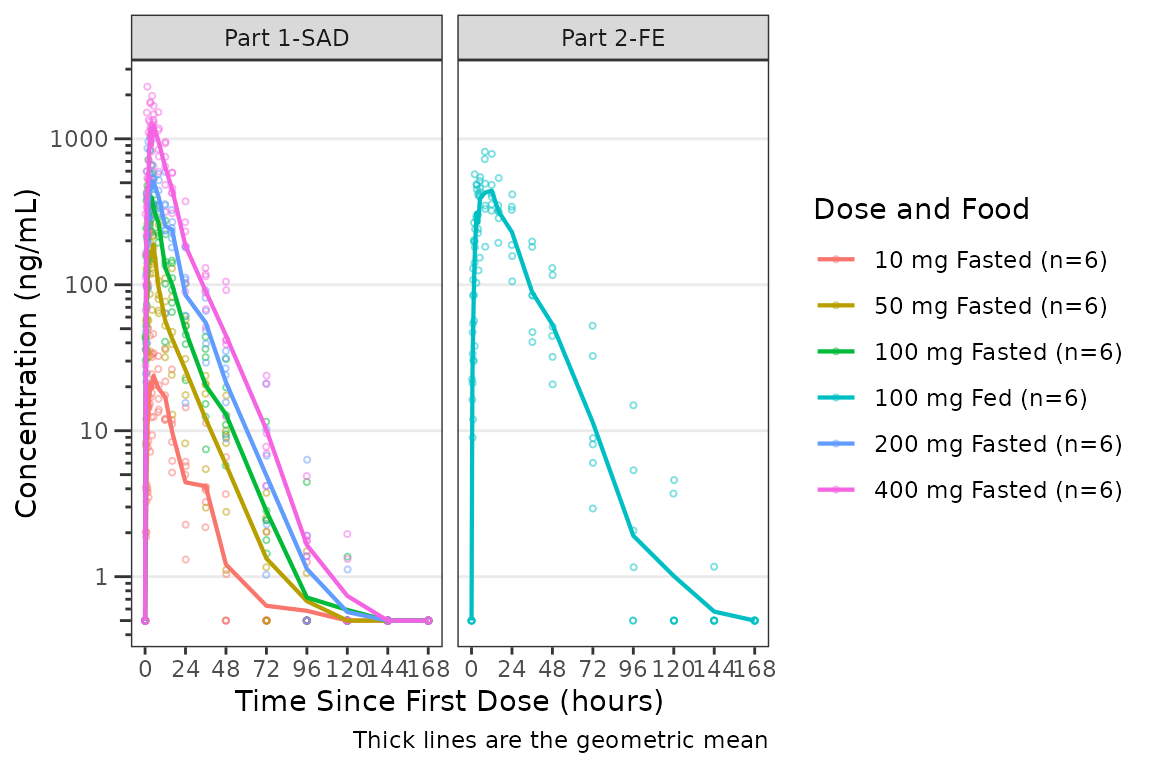
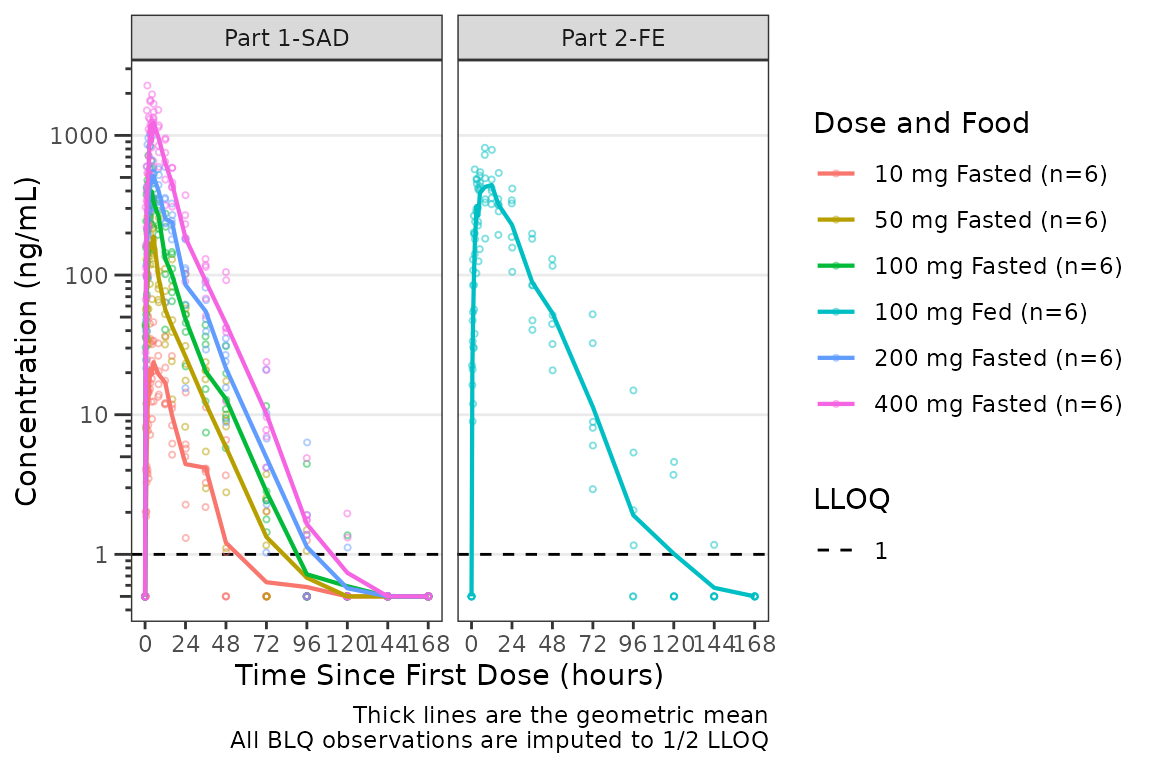
Deploying to gh-pages from @ ryancrass/pmxhelpr@890cc060be6ab495362b71bf5e910297cfe4edb2 🚀

diff --git a/news/index.html b/news/index.html
@@ -7,7 +7,7 @@
 
     <a class="navbar-brand me-2" href="../index.html">pmxhelpr</a>
 
-    <small class="nav-text text-muted me-auto" data-bs-toggle="tooltip" data-bs-placement="bottom" title="">0.5.0</small>
+    <small class="nav-text text-muted me-auto" data-bs-toggle="tooltip" data-bs-placement="bottom" title="">0.5.1</small>
 
 
     <button class="navbar-toggler" type="button" data-bs-toggle="collapse" data-bs-target="#navbar" aria-controls="navbar" aria-expanded="false" aria-label="Toggle navigation">
@@ -40,6 +40,9 @@
       <small>Source: <a href="https://github.com/ryancrass/pmxhelpr/blob/main/NEWS.md" class="external-link"><code>NEWS.md</code></a></small>
     </div>
 
+    <div class="section level2">
+<h2 class="pkg-version" data-toc-text="0.5.1" id="pmxhelpr-051">pmxhelpr 0.5.1<a class="anchor" aria-label="anchor" href="#pmxhelpr-051"></a></h2>
+</div>
     <div class="section level2">
 <h2 class="pkg-version" data-toc-text="0.5.0" id="pmxhelpr-050">pmxhelpr 0.5.0<a class="anchor" aria-label="anchor" href="#pmxhelpr-050"></a></h2>
 <p>This release simplifies plotting function interfaces, harmonizes naming across the package, replaces the flat theme list with a system of theme and element constructor, and introduces class-tagged stats containers (<code>vpc_stats</code>, <code>doseprop_stats</code>) that can be tabulated and re-plotted with recomputation.</p>

diff --git a/404.html b/404.html
@@ -21,7 +21,7 @@
 
     <a class="navbar-brand me-2" href="https://ryancrass.github.io/pmxhelpr/index.html">pmxhelpr</a>
 
-    <small class="nav-text text-muted me-auto" data-bs-toggle="tooltip" data-bs-placement="bottom" title="">0.5.0</small>
+    <small class="nav-text text-muted me-auto" data-bs-toggle="tooltip" data-bs-placement="bottom" title="">0.5.1</small>
 
 
     <button class="navbar-toggler" type="button" data-bs-toggle="collapse" data-bs-target="#navbar" aria-controls="navbar" aria-expanded="false" aria-label="Toggle navigation">

diff --git a/LICENSE-text.html b/LICENSE-text.html
@@ -7,7 +7,7 @@
 
     <a class="navbar-brand me-2" href="index.html">pmxhelpr</a>
 
-    <small class="nav-text text-muted me-auto" data-bs-toggle="tooltip" data-bs-placement="bottom" title="">0.5.0</small>
+    <small class="nav-text text-muted me-auto" data-bs-toggle="tooltip" data-bs-placement="bottom" title="">0.5.1</small>
 
 
     <button class="navbar-toggler" type="button" data-bs-toggle="collapse" data-bs-target="#navbar" aria-controls="navbar" aria-expanded="false" aria-label="Toggle navigation">

diff --git a/LICENSE.html b/LICENSE.html
@@ -7,7 +7,7 @@
 
     <a class="navbar-brand me-2" href="index.html">pmxhelpr</a>
 
-    <small class="nav-text text-muted me-auto" data-bs-toggle="tooltip" data-bs-placement="bottom" title="">0.5.0</small>
+    <small class="nav-text text-muted me-auto" data-bs-toggle="tooltip" data-bs-placement="bottom" title="">0.5.1</small>
 
 
     <button class="navbar-toggler" type="button" data-bs-toggle="collapse" data-bs-target="#navbar" aria-controls="navbar" aria-expanded="false" aria-label="Toggle navigation">

diff --git a/articles/doseprop-workflow.html b/articles/doseprop-workflow.html
@@ -20,7 +20,7 @@
 
     <a class="navbar-brand me-2" href="../index.html">pmxhelpr</a>
 
-    <small class="nav-text text-muted me-auto" data-bs-toggle="tooltip" data-bs-placement="bottom" title="">0.5.0</small>
+    <small class="nav-text text-muted me-auto" data-bs-toggle="tooltip" data-bs-placement="bottom" title="">0.5.1</small>
 
 
     <button class="navbar-toggler" type="button" data-bs-toggle="collapse" data-bs-target="#navbar" aria-controls="navbar" aria-expanded="false" aria-label="Toggle navigation">

diff --git a/articles/eda-pk-pkpd-workflow.html b/articles/eda-pk-pkpd-workflow.html
@@ -20,7 +20,7 @@
 
     <a class="navbar-brand me-2" href="../index.html">pmxhelpr</a>
 
-    <small class="nav-text text-muted me-auto" data-bs-toggle="tooltip" data-bs-placement="bottom" title="">0.5.0</small>
+    <small class="nav-text text-muted me-auto" data-bs-toggle="tooltip" data-bs-placement="bottom" title="">0.5.1</small>
 
 
     <button class="navbar-toggler" type="button" data-bs-toggle="collapse" data-bs-target="#navbar" aria-controls="navbar" aria-expanded="false" aria-label="Toggle navigation">

diff --git a/articles/getting-started.html b/articles/getting-started.html
@@ -20,7 +20,7 @@
 
     <a class="navbar-brand me-2" href="../index.html">pmxhelpr</a>
 
-    <small class="nav-text text-muted me-auto" data-bs-toggle="tooltip" data-bs-placement="bottom" title="">0.5.0</small>
+    <small class="nav-text text-muted me-auto" data-bs-toggle="tooltip" data-bs-placement="bottom" title="">0.5.1</small>
 
 
     <button class="navbar-toggler" type="button" data-bs-toggle="collapse" data-bs-target="#navbar" aria-controls="navbar" aria-expanded="false" aria-label="Toggle navigation">

diff --git a/articles/gof-diagnostics.html b/articles/gof-diagnostics.html
@@ -20,7 +20,7 @@
 
     <a class="navbar-brand me-2" href="../index.html">pmxhelpr</a>
 
-    <small class="nav-text text-muted me-auto" data-bs-toggle="tooltip" data-bs-placement="bottom" title="">0.5.0</small>
+    <small class="nav-text text-muted me-auto" data-bs-toggle="tooltip" data-bs-placement="bottom" title="">0.5.1</small>
 
 
     <button class="navbar-toggler" type="button" data-bs-toggle="collapse" data-bs-target="#navbar" aria-controls="navbar" aria-expanded="false" aria-label="Toggle navigation">

diff --git a/articles/index.html b/articles/index.html
@@ -7,7 +7,7 @@
 
     <a class="navbar-brand me-2" href="../index.html">pmxhelpr</a>
 
-    <small class="nav-text text-muted me-auto" data-bs-toggle="tooltip" data-bs-placement="bottom" title="">0.5.0</small>
+    <small class="nav-text text-muted me-auto" data-bs-toggle="tooltip" data-bs-placement="bottom" title="">0.5.1</small>
 
 
     <button class="navbar-toggler" type="button" data-bs-toggle="collapse" data-bs-target="#navbar" aria-controls="navbar" aria-expanded="false" aria-label="Toggle navigation">

diff --git a/articles/plot-themes.html b/articles/plot-themes.html
@@ -20,7 +20,7 @@
 
     <a class="navbar-brand me-2" href="../index.html">pmxhelpr</a>
 
-    <small class="nav-text text-muted me-auto" data-bs-toggle="tooltip" data-bs-placement="bottom" title="">0.5.0</small>
+    <small class="nav-text text-muted me-auto" data-bs-toggle="tooltip" data-bs-placement="bottom" title="">0.5.1</small>
 
 
     <button class="navbar-toggler" type="button" data-bs-toggle="collapse" data-bs-target="#navbar" aria-controls="navbar" aria-expanded="false" aria-label="Toggle navigation">

diff --git a/articles/vpc-workflow.html b/articles/vpc-workflow.html
@@ -20,7 +20,7 @@
 
     <a class="navbar-brand me-2" href="../index.html">pmxhelpr</a>
 
-    <small class="nav-text text-muted me-auto" data-bs-toggle="tooltip" data-bs-placement="bottom" title="">0.5.0</small>
+    <small class="nav-text text-muted me-auto" data-bs-toggle="tooltip" data-bs-placement="bottom" title="">0.5.1</small>
 
 
     <button class="navbar-toggler" type="button" data-bs-toggle="collapse" data-bs-target="#navbar" aria-controls="navbar" aria-expanded="false" aria-label="Toggle navigation">

diff --git a/authors.html b/authors.html
@@ -7,7 +7,7 @@
 
     <a class="navbar-brand me-2" href="index.html">pmxhelpr</a>
 
-    <small class="nav-text text-muted me-auto" data-bs-toggle="tooltip" data-bs-placement="bottom" title="">0.5.0</small>
+    <small class="nav-text text-muted me-auto" data-bs-toggle="tooltip" data-bs-placement="bottom" title="">0.5.1</small>
 
 
     <button class="navbar-toggler" type="button" data-bs-toggle="collapse" data-bs-target="#navbar" aria-controls="navbar" aria-expanded="false" aria-label="Toggle navigation">